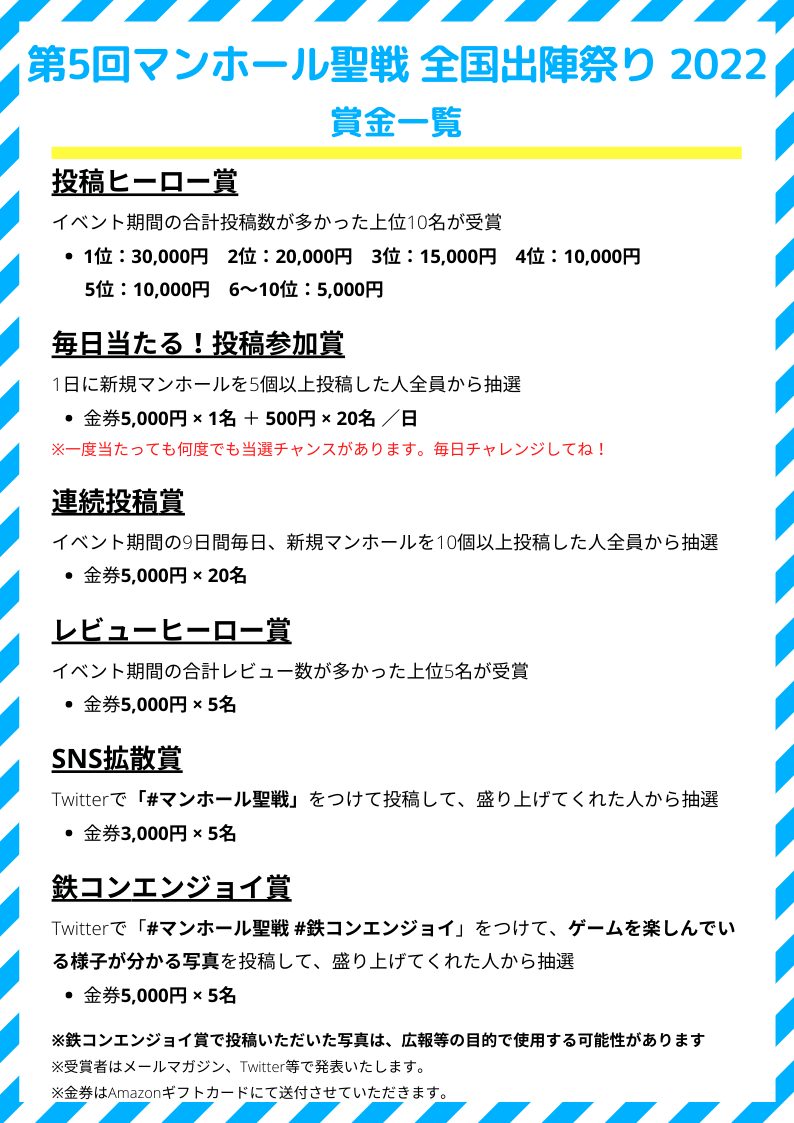
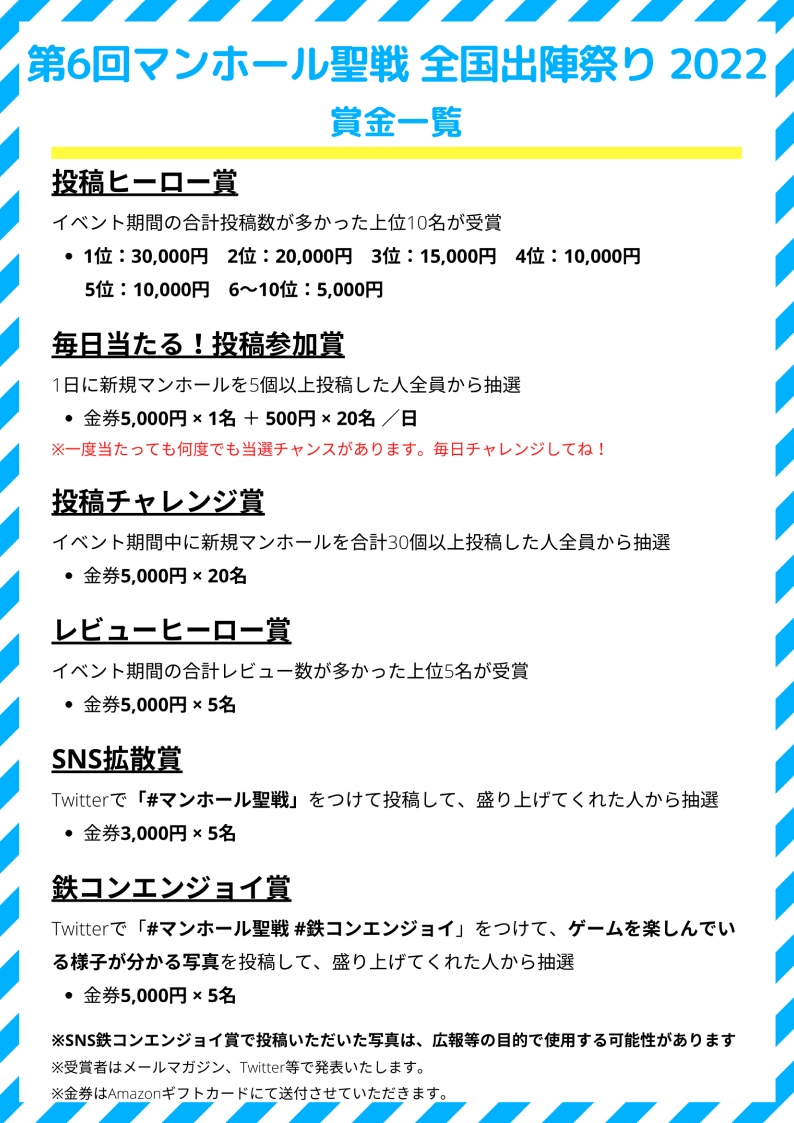
第6回用に修正

diff --git a/docs/index.html b/docs/index.html
@@ -12,9 +12,9 @@
 	<meta charset="utf-8">
 	<meta http-equiv="X-UA-Compatible" content="IE=edge">
 	<meta name="viewport" content="width=device-width, user-scalable=yes, maximum-scale=1.0, minimum-scale=1.0">
-	<title>第5回#マンホール聖戦「全国出陣祭り」</title>
+	<title>第6回#マンホール聖戦「全国出陣祭り」</title>
 	<meta name="keywords" content="マンホールゲームアプリ,#マンホール聖戦,鉄とコンクリートの守り人">
-	<meta name="description" content="第4回#マンホール聖戦「全国出陣祭り」開催！マンホールをスマホで撮影して街のインフラ危機を救おう！地元愛が強いのは一体どこだ！？">
+	<meta name="description" content="第6回#マンホール聖戦「全国出陣祭り」開催！マンホールをスマホで撮影して街のインフラ危機を救おう！地元愛が強いのは一体どこだ！？">
 	<meta name="robots" content="index, follow">
   <meta name="thumbnail" content="https://www.guardians.city/assets/img/ogp4.jpg">
 	<link rel="shortcut icon" href="./assets/img/favicon_2.ico">
@@ -26,12 +26,12 @@
 
 	<!-- ogp -->
 	<meta name="twitter:card" content="summary_large_image">
-	<meta property="og:title" content="第4回#マンホール聖戦「全国出陣祭り」">
-	<meta property="og:description" content="第4回#マンホール聖戦「全国出陣祭り」開催！マンホールをスマホで撮影して街のインフラ危機を救おう！地元愛が強いのは一体どこだ！？">
+	<meta property="og:title" content="第6回#マンホール聖戦「全国出陣祭り」">
+	<meta property="og:description" content="第6回#マンホール聖戦「全国出陣祭り」開催！マンホールをスマホで撮影して街のインフラ危機を救おう！地元愛が強いのは一体どこだ！？">
 	<meta property="og:type" content="website">
 	<meta property="og:url" content="https://www.guardians.city">
 	<meta property="og:image" content="https://www.guardians.city/assets/img/ogp4.jpg">
-	<meta property="og:site_name" content="第4回#マンホール聖戦「全国出陣祭り」">
+	<meta property="og:site_name" content="第6回#マンホール聖戦「全国出陣祭り」">
 	<!-- / ogp -->
 
 	<link href="./assets/css/style.css?v1119" rel="stylesheet">
@@ -81,7 +81,7 @@ height="0" width="0" style="display:none;visibility:hidden"></iframe></noscript>
 						<picture>
 							<source media="(min-width: 769px)" srcset="./assets/img/kv_bg_z.png" />
 							<source media="(max-width: 768px)" srcset="./assets/img/kv_bg_sp_z.jpg" />
-							<img src="./assets/img/kv_bg_z.png" alt="第5回#マンホール聖戦「全国出陣祭り」" class="kv_bg">
+							<img src="./assets/img/kv_bg_z.png" alt="第6回#マンホール聖戦「全国出陣祭り」" class="kv_bg">
 						</picture>
 					</div>		
 				</header>
@@ -473,9 +473,9 @@ height="0" width="0" style="display:none;visibility:hidden"></iframe></noscript>
 					</h1>
 						<div class="ev_event_textbox">
 							<p class="ev_text">
-								イベント：第5回　#マンホール聖戦〜全国出陣祭〜2022<br>
-開催期間：2022年1月29日(土)〜2月6日(日)<br>
-<a href="https://twitter.com/Guardians__City/status/1485810908676988931">（お詫び）当初1月22日（土）の開催予定でしたが、1月22日当日に技術障害があり、1週間延期させていただきました。参加予定であった皆様にはご迷惑をおかけしまして大変申し訳ございません。</a>
+								イベント：第6回　#マンホール聖戦〜全国出陣祭〜2022<br>
+開催期間：2022年2月19日(土)〜2月27日(日)<br>
+<!-- <a href="https://twitter.com/Guardians__City/status/1485810908676988931">（お詫び）当初1月22日（土）の開催予定でしたが、1月22日当日に技術障害があり、1週間延期させていただきました。参加予定であった皆様にはご迷惑をおかけしまして大変申し訳ございません。</a> -->
 
 							</p>
 
@@ -824,7 +824,7 @@ height="0" width="0" style="display:none;visibility:hidden"></iframe></noscript>
 <h4>注意事項</h4>
 
 <p>
-  ・賞金に関わる内容は、イベント開催期間の[2022年1月29日(土)〜2月6日(日)]が対象となります。<br>
+  ・賞金に関わる内容は、イベント開催期間の[2022年2月19日(土)〜2月27日(日)]が対象となります。<br>
   ・抽選以外の賞の集計は、各集計期間終了時点のアプリ内のランキングを元に選定されます。<br>
   ・受賞者へのご連絡は、ランキング集計後に運営局よりEmail・LINEまたはTwitterを通してご連絡差
 </p>
